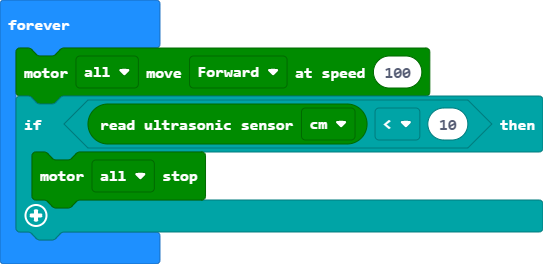
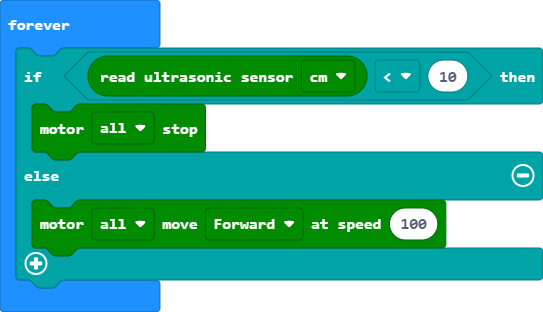
add else statement

diff --git a/main.ts b/main.ts
@@ -1,6 +1,7 @@
 basic.forever(function () {
-    maqueen.motorRun(maqueen.Motors.All, maqueen.Dir.CW, 100)
     if (maqueen.Ultrasonic(PingUnit.Centimeters) < 10) {
         maqueen.motorStop(maqueen.Motors.All)
+    } else {
+        maqueen.motorRun(maqueen.Motors.All, maqueen.Dir.CW, 100)
     }
 })

diff --git a/rijden.md b/rijden.md
@@ -37,8 +37,9 @@ Zoals je gemerkt zult hebben, rijd de Maqueen nu alleen vooruit en stopt die nie
 Om hem te laten stoppen als die iets tegenkomt ga je nu gebruik maken van o.a. logica codeblokken.  
 
 Klik in de **blokkenlade** op de categorie ``||logic:Logic||``.
-Sleep hieruit het blok ``||logic: if ... then||`` en plaats die in het ``||basic:on start||`` blok, onder het
-blok ``||maqueen: motor ... move at speed ...||`` . 
+Sleep hieruit het blok ``||logic: if ... then||`` blok.  
+Haal ``||maqueen: motor ... move ... at speed ...||`` uit het ``||basic:forever||`` blok en stop ``||logic: if ... then||`` erin.  
+
 Je ziet op dit blok een ruitvorm met true erin staan. In makeCode is de ruit een comparison (vergelijking).  
 Als (if) de vergelijking waar (true) is, dan (then) wordt de code in dat blok uitgevoerd.  
 
@@ -47,7 +48,6 @@ Deze klik je op de true van het ``||logic: if ... then||`` blok. Hier kan je in 
 
 ```blocks
 basic.forever(function () {
-    maqueen.motorRun(maqueen.Motors.All, maqueen.Dir.CW, 100)
     if (0 == 0) {
         
     }
@@ -61,20 +61,23 @@ Pak uit ``||maqueen:Maqueen||`` het ronde blok ``||maqueen: read ultrasonic sens
 Dit blok klik je in de linker 0. Klik dan op het **=** teken en verander deze in **<**. Daarna vul je **10** in op de rechter 0. 
 Pak nu uit ``||maqueen:Maqueen||`` het blok ``||maqueen: motor ... stop||``. Klik dit blok in het ``||logic: if ... then||`` blok. 
 Verander nu op dat blok **Left** in **All**. 
-Als je nu je hele code leest staat er:  
-Wanneer het programma begint (on Start) rijd de Maqueen met alle (All) motoren aan, vooruit (Forward) op en snelheid (speed) van 100.  
-Als (If) de ulstrasonic sensor een afstand meet kleiner dan (<) 10 cm, dan (then) stopt de Maqueen alle motoren.  
+Bij ``||logic: if ... then||`` hoort ook een stuk code voor **else**. Druk hiervoor op het plusje links onder op het ``||logic: if ... then||``.  
+In dit geval wil je dat Maqueen vooruit rijd, als die verder dan 10 cm afstand van een voorwerp is. Oftewel,
+als (If) Maqueen dichterbij dan 10 cm is van een voorwerp is, dan (then) stopt hij. Anders (else) rijd hij voorruit.  
+Sleep nu het ``||maqueen: motor ... move ... at speed ...||`` in het else blok.  
 
-``||Download||`` dit stuk code op de micro:Maqueen en kijk of die optijd stopt!
+
+``||Download||`` dit stuk code op de micro:Maqueen en kijk of die optijd stopt!  
 
 *Kom je er niet uit? Kijk dan bij de hint en vraag eventueel hulp aan een begeleider*
 
 
 ```blocks
 basic.forever(function () {
-    maqueen.motorRun(maqueen.Motors.All, maqueen.Dir.CW, 100)
     if (maqueen.Ultrasonic(PingUnit.Centimeters) < 10) {
         maqueen.motorStop(maqueen.Motors.All)
+    } else {
+        maqueen.motorRun(maqueen.Motors.All, maqueen.Dir.CW, 100)
     }
 })
 ```
